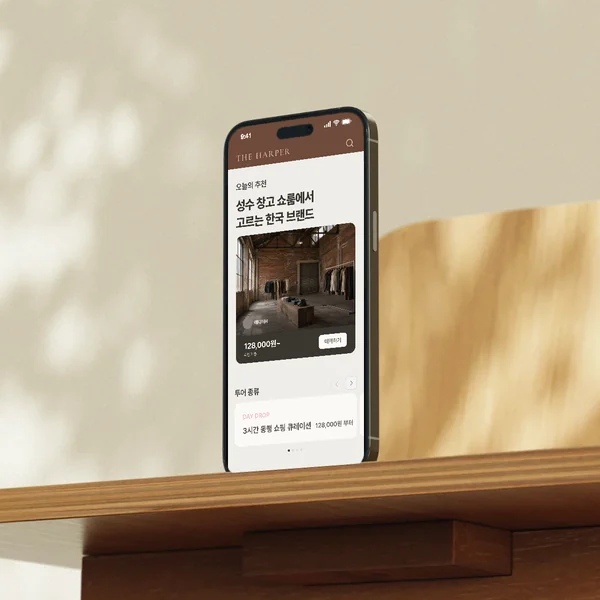
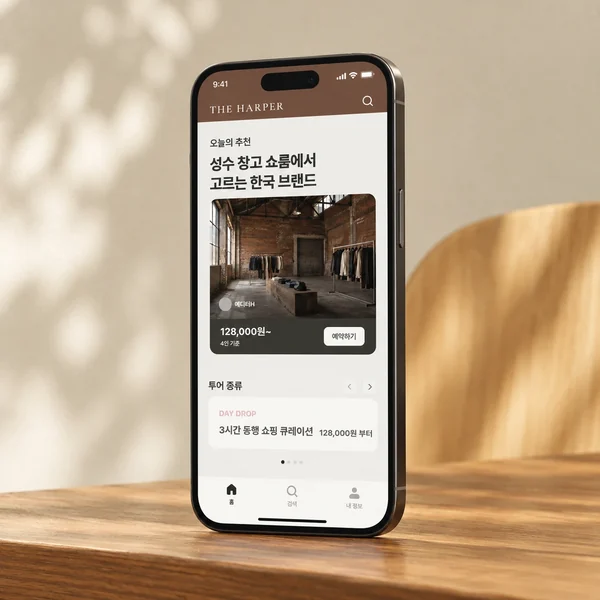
히어로 목업 사진을 새 선반 위 아이폰 이미지(1254×1254)로 교체

diff --git a/index.html b/index.html
@@ -18,7 +18,7 @@
   <link rel="apple-touch-icon" href="src/assets/apple-touch-icon.png?v=1">
 
   <link rel="stylesheet" href="https://cdnjs.cloudflare.com/ajax/libs/leaflet/1.9.4/leaflet.min.css" />
-  <link rel="preload" as="image" href="src/assets/hero-shelf-1116.webp?v=1" imagesrcset="src/assets/hero-shelf-600.webp?v=1 600w, src/assets/hero-shelf-1116.webp?v=1 1116w" imagesizes="(max-width: 900px) 100vw, 44vw" fetchpriority="high">
+  <link rel="preload" as="image" href="src/assets/hero-shelf-1254.webp?v=2" imagesrcset="src/assets/hero-shelf-600.webp?v=2 600w, src/assets/hero-shelf-1254.webp?v=2 1116w" imagesizes="(max-width: 900px) 100vw, 44vw" fetchpriority="high">
   <link rel="stylesheet" href="src/styles/site.css?v=16">
   <title data-i18n="site-title">더하퍼 — K-패션 에디터 큐레이션, 서울</title>
 </head>
@@ -96,7 +96,7 @@
         </div>
 
         <div class="hero__visual">
-          <img class="hero__phone" src="src/assets/hero-shelf-1116.webp?v=1" srcset="src/assets/hero-shelf-600.webp?v=1 600w, src/assets/hero-shelf-1116.webp?v=1 1116w" sizes="(max-width: 900px) 100vw, 44vw" alt="선반 위에 세워 둔 휴대전화에 THE HARPER 앱 홈 화면이 보인다" width="1116" height="1116" fetchpriority="high" decoding="async">
+          <img class="hero__phone" src="src/assets/hero-shelf-1254.webp?v=2" srcset="src/assets/hero-shelf-600.webp?v=2 600w, src/assets/hero-shelf-1254.webp?v=2 1116w" sizes="(max-width: 900px) 100vw, 44vw" alt="선반 위에 세워 둔 휴대전화에 THE HARPER 앱 홈 화면이 보인다" width="1254" height="1254" fetchpriority="high" decoding="async">
         </div>
 
         <div class="hero__foot">
